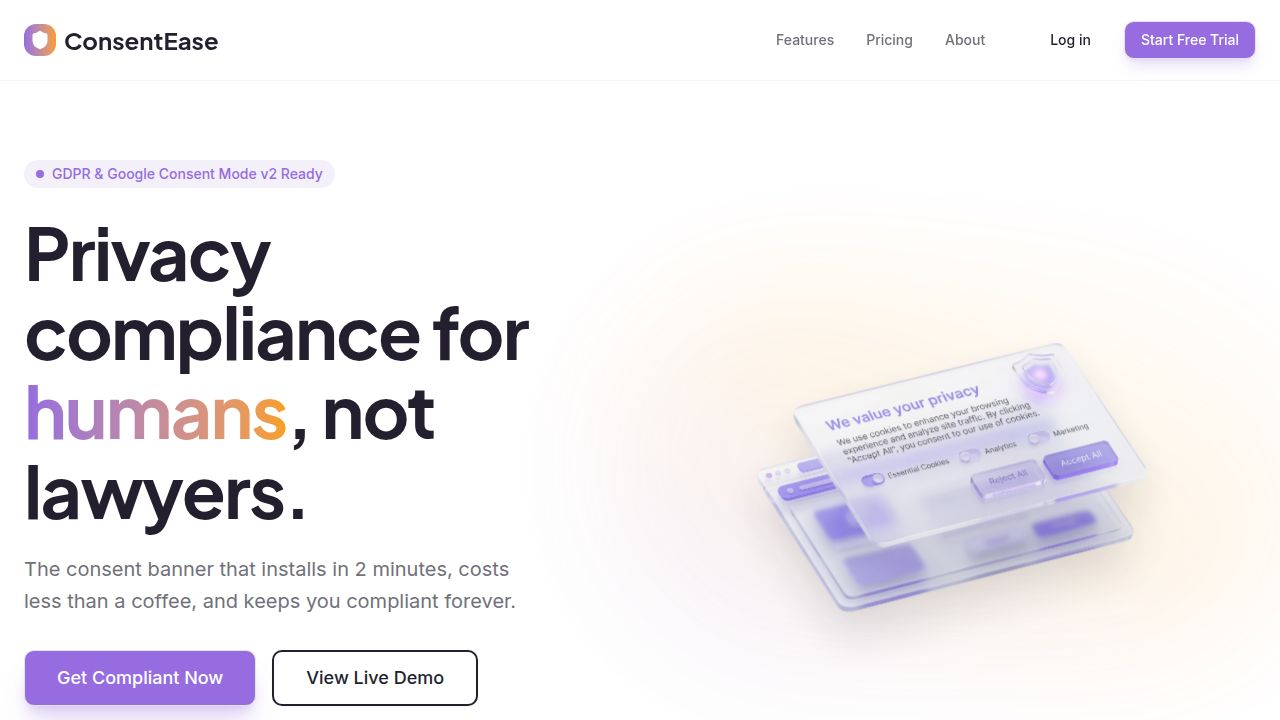
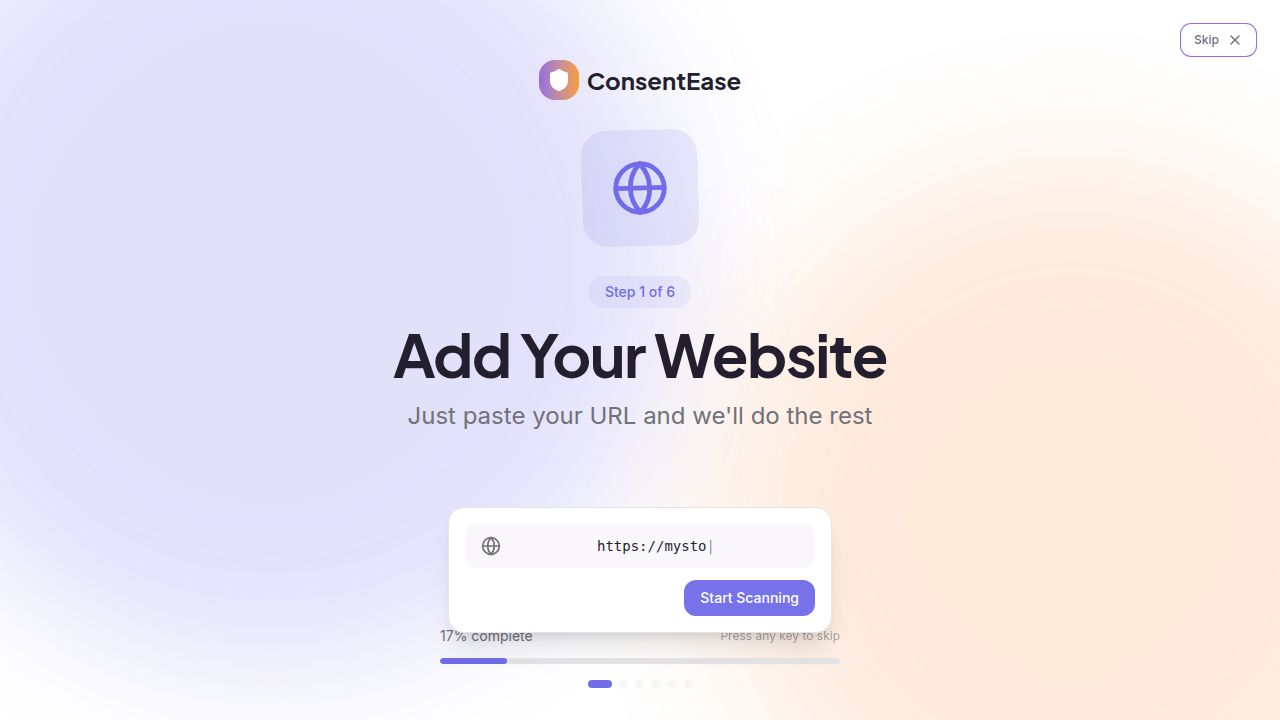
Disable intro overlay on mobile devices for better performance
Disables the intro overlay component on mobile devices with screen widths less than 768px by calling `setShowIntro(false)` and `setIsReady(true)` early in the `useIntroOverlay` hook.

Replit-Commit-Author: Agent
Replit-Commit-Session-Id: ca600171-d200-4248-8ce1-294499e3f5e5
Replit-Commit-Checkpoint-Type: full_checkpoint
Replit-Commit-Event-Id: 646add8c-f64b-40a5-8e05-a0d322697ba4
Replit-Commit-Screenshot-Url: https://storage.googleapis.com/screenshot-production-us-central1/d78fa0c6-228e-4132-85d8-0130d3fb0506/ca600171-d200-4248-8ce1-294499e3f5e5/olcZw2F
Replit-Helium-Checkpoint-Created: true

diff --git a/client/src/components/IntroOverlay.tsx b/client/src/components/IntroOverlay.tsx
@@ -524,6 +524,15 @@ export function useIntroOverlay() {
   const [isReady, setIsReady] = useState(false);
 
   useEffect(() => {
+    // Disable intro on mobile devices (< 768px) due to performance
+    const isMobile = window.innerWidth < 768;
+    
+    if (isMobile) {
+      setShowIntro(false);
+      setIsReady(true);
+      return;
+    }
+    
     const hasSeenIntro = localStorage.getItem(STORAGE_KEY);
     if (hasSeenIntro) {
       setShowIntro(false);